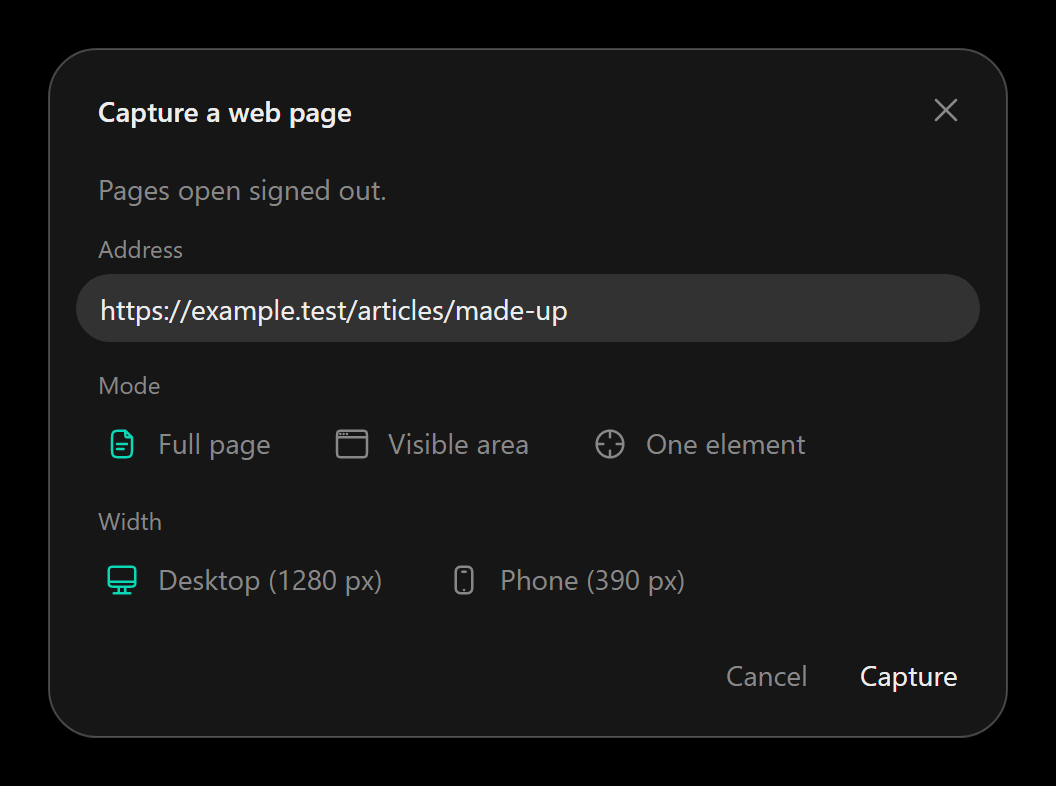
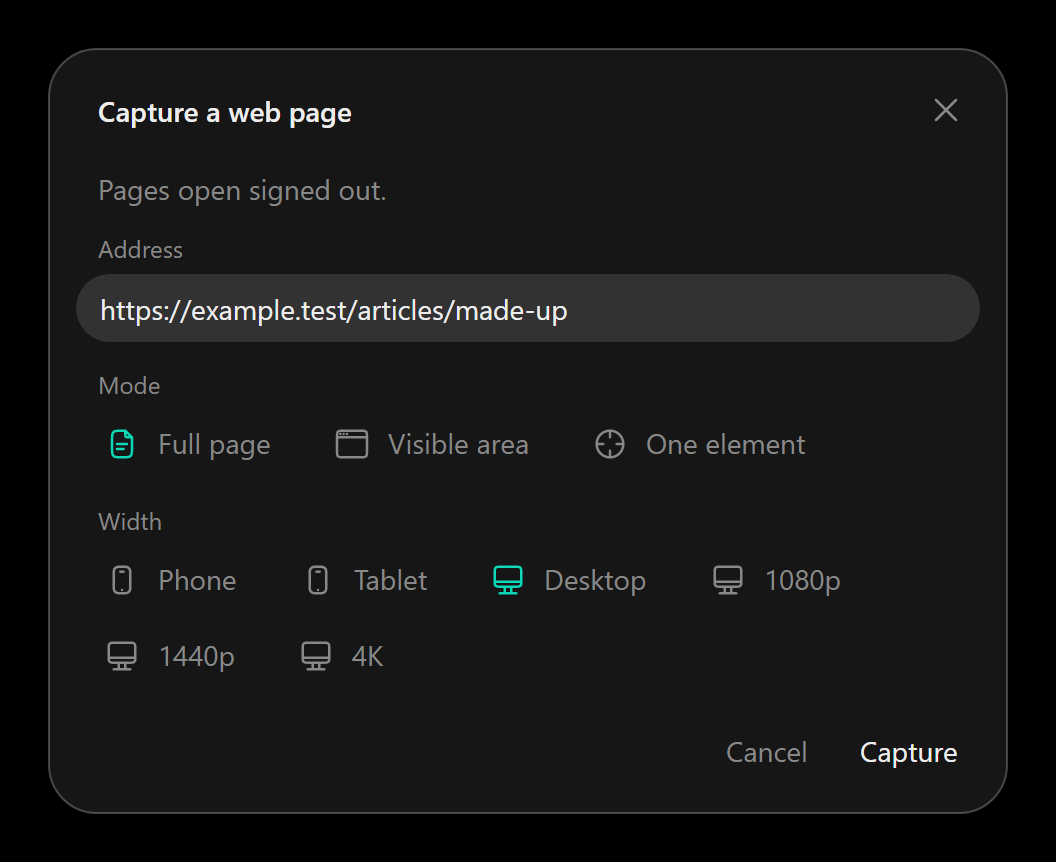
feat(web): six page widths in the web capture window
Phone, Tablet, Desktop (still the default), 1080p, 1440p and 4K. Each width is
a setting with a default; DesktopWidth and PhoneWidth keep their keys. Tablet
is a touch device like Phone. Pills show a short name; the pixel width is in the
tooltip and the accessible name, and the row wraps. Height and scale stay the
one shared setting each.

diff --git a/src/NoMercy.Share.Core/Settings/WebCaptureSettings.cs b/src/NoMercy.Share.Core/Settings/WebCaptureSettings.cs
@@ -1,3 +1,5 @@
+using NoMercy.Share.Core.Capture;
+
 namespace NoMercy.Share.Core.Settings;
 
 /// <summary>How a web page is captured: which browser, how wide the page is laid out, and how long to wait for it.</summary>
@@ -12,10 +14,22 @@ public sealed record WebCaptureSettings
     /// <summary>The page width for the Phone choice, in CSS pixels.</summary>
     public int PhoneWidth { get; init; } = ShareDefaults.WebCapturePhoneWidth;
 
+    /// <summary>The page width for the Tablet choice, in CSS pixels.</summary>
+    public int TabletWidth { get; init; } = ShareDefaults.WebCaptureTabletWidth;
+
+    /// <summary>The page width for the 1080p choice, in CSS pixels.</summary>
+    public int FullHdWidth { get; init; } = ShareDefaults.WebCaptureFullHdWidth;
+
+    /// <summary>The page width for the 1440p choice, in CSS pixels.</summary>
+    public int QuadHdWidth { get; init; } = ShareDefaults.WebCaptureQuadHdWidth;
+
+    /// <summary>The page width for the 4K choice, in CSS pixels.</summary>
+    public int UltraHdWidth { get; init; } = ShareDefaults.WebCaptureUltraHdWidth;
+
     /// <summary>The height of the visible area, in CSS pixels.</summary>
     public int Height { get; init; } = ShareDefaults.WebCaptureHeight;
 
-    /// <summary>Picture pixels per CSS pixel; 2 keeps text crisp on both Desktop and Phone.</summary>
+    /// <summary>Picture pixels per CSS pixel; 2 keeps text crisp at every width.</summary>
     public double ScaleFactor { get; init; } = ShareDefaults.WebCaptureScaleFactor;
 
     /// <summary>How long the page gets to finish loading before the capture stops.</summary>
@@ -26,4 +40,15 @@ public sealed record WebCaptureSettings
 
     /// <summary>The tallest picture of a full page or an element, in CSS pixels; a longer page is cut off here.</summary>
     public int MaxFullPageHeight { get; init; } = ShareDefaults.WebCaptureMaxFullPageHeight;
+
+    /// <summary>The page width set for a choice, in CSS pixels.</summary>
+    public int WidthOf(WebCaptureDevice device) => device switch
+    {
+        WebCaptureDevice.Phone => PhoneWidth,
+        WebCaptureDevice.Tablet => TabletWidth,
+        WebCaptureDevice.FullHd => FullHdWidth,
+        WebCaptureDevice.QuadHd => QuadHdWidth,
+        WebCaptureDevice.UltraHd => UltraHdWidth,
+        _ => DesktopWidth
+    };
 }

diff --git a/src/NoMercy.Share.Core/Capture/WebCaptureViewModel.cs b/src/NoMercy.Share.Core/Capture/WebCaptureViewModel.cs
@@ -25,9 +25,14 @@ public sealed class WebCaptureViewModel : ObservableObject
     {
         _capture = capture;
         Modes = [new WebModeChoice(WebCaptureKind.FullPage), new WebModeChoice(WebCaptureKind.Viewport), new WebModeChoice(WebCaptureKind.Element)];
-        Devices = [new WebDeviceChoice(WebCaptureDevice.Desktop, settings.DesktopWidth), new WebDeviceChoice(WebCaptureDevice.Phone, settings.PhoneWidth)];
+        WebCaptureDevice[] narrowestFirst =
+        [
+            WebCaptureDevice.Phone, WebCaptureDevice.Tablet, WebCaptureDevice.Desktop,
+            WebCaptureDevice.FullHd, WebCaptureDevice.QuadHd, WebCaptureDevice.UltraHd
+        ];
+        Devices = [.. narrowestFirst.Select(device => new WebDeviceChoice(device, settings.WidthOf(device)))];
         _selectedMode = Modes[0];
-        _selectedDevice = Devices[0];
+        _selectedDevice = Devices.Single(choice => choice.Device == WebCaptureDevice.Desktop);
         if (WebAddress.TryParse(clipboardText, out Uri? copied) && WebAddress.IsHttps(copied))
         {
             _address = clipboardText!.Trim();

diff --git a/src/NoMercy.Share.Platform.Windows/CdpWebPageCapture.cs b/src/NoMercy.Share.Platform.Windows/CdpWebPageCapture.cs
@@ -72,10 +72,10 @@ public sealed class CdpWebPageCapture(CaptureFiles files, Func<WebCaptureSetting
         await connection.SendAsync("Page.enable", null, token);
         await connection.SendAsync("Emulation.setDeviceMetricsOverride", new
         {
-            width = device == WebCaptureDevice.Phone ? current.PhoneWidth : current.DesktopWidth,
+            width = current.WidthOf(device),
             height = current.Height,
             deviceScaleFactor = current.ScaleFactor,
-            mobile = device == WebCaptureDevice.Phone
+            mobile = device is WebCaptureDevice.Phone or WebCaptureDevice.Tablet
         }, token);
         Task loaded = connection.NextEvent("Page.loadEventFired");
         JsonElement navigation = await connection.SendAsync("Page.navigate", new { url = page.AbsoluteUri }, token);

diff --git a/src/NoMercy.Share.Core/Capture/WebDeviceChoice.cs b/src/NoMercy.Share.Core/Capture/WebDeviceChoice.cs
@@ -3,5 +3,9 @@ namespace NoMercy.Share.Core.Capture;
 /// <summary>One page width the capture window offers, with the width from the settings.</summary>
 public sealed record WebDeviceChoice(WebCaptureDevice Device, int Width)
 {
-    public string Label => Strings.Get(Device == WebCaptureDevice.Phone ? "web.device.phone" : "web.device.desktop", Width);
+    /// <summary>The short name on the pill.</summary>
+    public string Label => Strings.Get($"web.device.{Device.ToString().ToLowerInvariant()}");
+
+    /// <summary>The name with the pixel width, for the tooltip and the screen reader.</summary>
+    public string Description => Strings.Get("web.device.described", Label, Width);
 }

diff --git a/tests/NoMercy.Share.Core.Tests/WebCaptureViewModelTests.cs b/tests/NoMercy.Share.Core.Tests/WebCaptureViewModelTests.cs
@@ -199,6 +199,9 @@ public sealed class WebCaptureViewModelTests
         WebCaptureViewModel model = Model();
 
         Assert.Equal(["Full page", "Visible area", "One element"], model.Modes.Select(mode => mode.Label));
-        Assert.Equal(["Desktop (1280 px)", "Phone (390 px)"], model.Devices.Select(device => device.Label));
+        Assert.Equal(["Phone", "Tablet", "Desktop", "1080p", "1440p", "4K"], model.Devices.Select(device => device.Label));
+        Assert.Equal(
+            ["Phone (390 px)", "Tablet (834 px)", "Desktop (1280 px)", "1080p (1920 px)", "1440p (2560 px)", "4K (3840 px)"],
+            model.Devices.Select(device => device.Description));
     }
 }

diff --git a/src/NoMercy.Share.Core/Settings/ShareDefaults.cs b/src/NoMercy.Share.Core/Settings/ShareDefaults.cs
@@ -141,6 +141,14 @@ public static class ShareDefaults
 
     public const int WebCapturePhoneWidth = 390;
 
+    public const int WebCaptureTabletWidth = 834;
+
+    public const int WebCaptureFullHdWidth = 1920;
+
+    public const int WebCaptureQuadHdWidth = 2560;
+
+    public const int WebCaptureUltraHdWidth = 3840;
+
     public const int WebCaptureHeight = 800;
 
     public const double WebCaptureScaleFactor = 2;

diff --git a/src/NoMercy.Share.App/WebCapture/WebChoiceIcons.cs b/src/NoMercy.Share.App/WebCapture/WebChoiceIcons.cs
@@ -14,5 +14,5 @@ internal static class WebChoiceIcons
     });
 
     public static readonly FuncValueConverter<WebCaptureDevice, string> Device =
-        new(device => device == WebCaptureDevice.Phone ? "mobilePhone" : "monitor");
+        new(device => device is WebCaptureDevice.Phone or WebCaptureDevice.Tablet ? "mobilePhone" : "monitor");
 }

diff --git a/src/NoMercy.Share.Core/Capture/WebCaptureDevice.cs b/src/NoMercy.Share.Core/Capture/WebCaptureDevice.cs
@@ -4,5 +4,9 @@ namespace NoMercy.Share.Core.Capture;
 public enum WebCaptureDevice
 {
     Desktop,
-    Phone
+    Phone,
+    Tablet,
+    FullHd,
+    QuadHd,
+    UltraHd
 }

diff --git a/README.md b/README.md
@@ -86,11 +86,11 @@ Click the globe button. A small window asks for three things:
 
 - **Address**: filled in for you when your clipboard holds an https address.
 - **Mode**: **Full page**, **Visible area**, or **One element**, where you give a CSS selector such as `#header`.
-- **Width**: **Desktop** or **Phone**, which decides how the page lays itself out.
+- **Width**: **Phone**, **Tablet**, **Desktop**, **1080p**, **1440p** or **4K**, which decides how the page lays itself out. Point at a choice to see its width in pixels. [The widths can be changed](docs/settings-file.md#web-page-capture).
 
 Click a choice to pick it, or use Tab and the arrow keys. Press Enter to capture. Press Esc or click the cross to cancel. Drag the window by its background.
 
-![The Capture a web page window: a title with a cross, the address https://example.test/articles/made-up, a row of Mode choices with Full page picked, a row of Width choices with Desktop picked, and Cancel and Capture.](docs/images/web-page-capture.png)
+![The Capture a web page window: a title with a cross, the address https://example.test/articles/made-up, a row of Mode choices with Full page picked, six Width choices on two lines with Desktop picked, and Cancel and Capture.](docs/images/web-page-capture.png)
 
 The page opens in a private, headless Edge (or Chrome) that is closed again afterwards. It has no cookies, so you see the page as a signed-out visitor, and only http and https addresses are opened.
 

diff --git a/docs/settings-file.md b/docs/settings-file.md
@@ -83,8 +83,10 @@ The Web page button runs Edge (else Chrome) headless with its own empty profile 
 | Setting (`WebCapture`) | Default | What it does |
 | --- | --- | --- |
 | `BrowserPath` | blank | The browser file; blank finds Edge, then Chrome, in their standard folders. |
-| `DesktopWidth`, `PhoneWidth` | 1280, 390 | The page width in CSS pixels. |
-| `Height` | 800 | The height of the visible area. |
+| `PhoneWidth`, `TabletWidth` | 390, 834 | The page width of **Phone** and **Tablet**, in CSS pixels. Both load the page as a touch device. |
+| `DesktopWidth` | 1280 | The page width of **Desktop**, the choice the window opens with. |
+| `FullHdWidth`, `QuadHdWidth`, `UltraHdWidth` | 1920, 2560, 3840 | The page width of **1080p**, **1440p** and **4K**. |
+| `Height` | 800 | The height of the visible area, at every width. |
 | `ScaleFactor` | 2 | Picture pixels per CSS pixel. |
 | `LoadTimeoutSeconds` | 30 | How long a page gets to load. |
 | `SettleMilliseconds` | 500 | The wait after the load, for late layout. |
